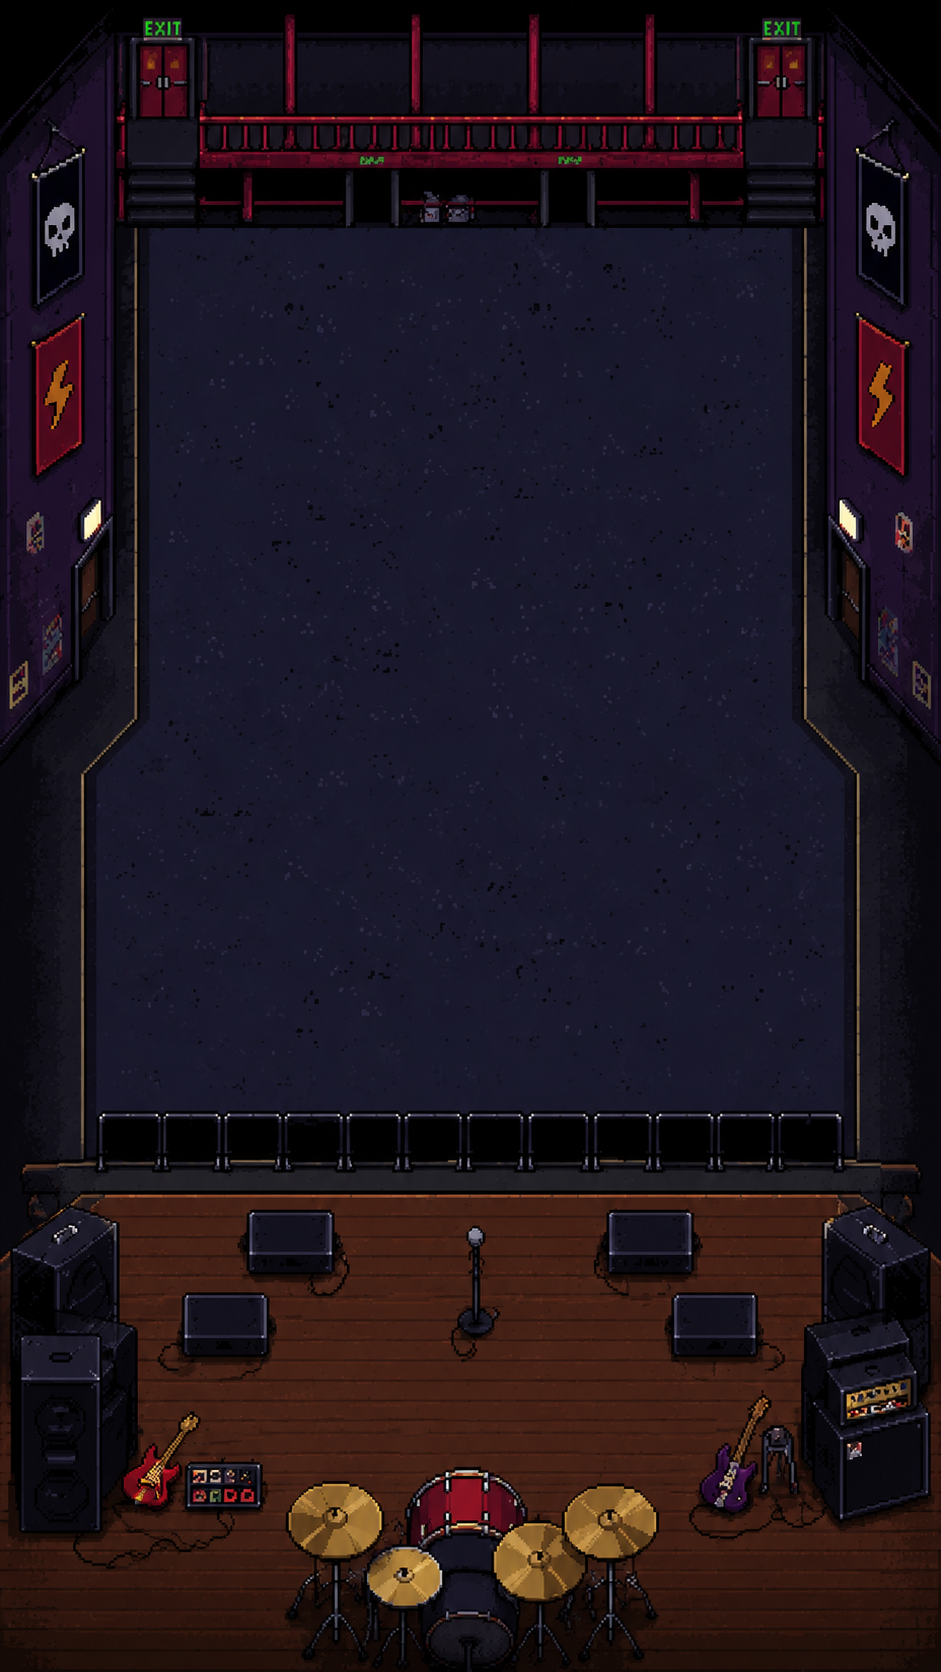
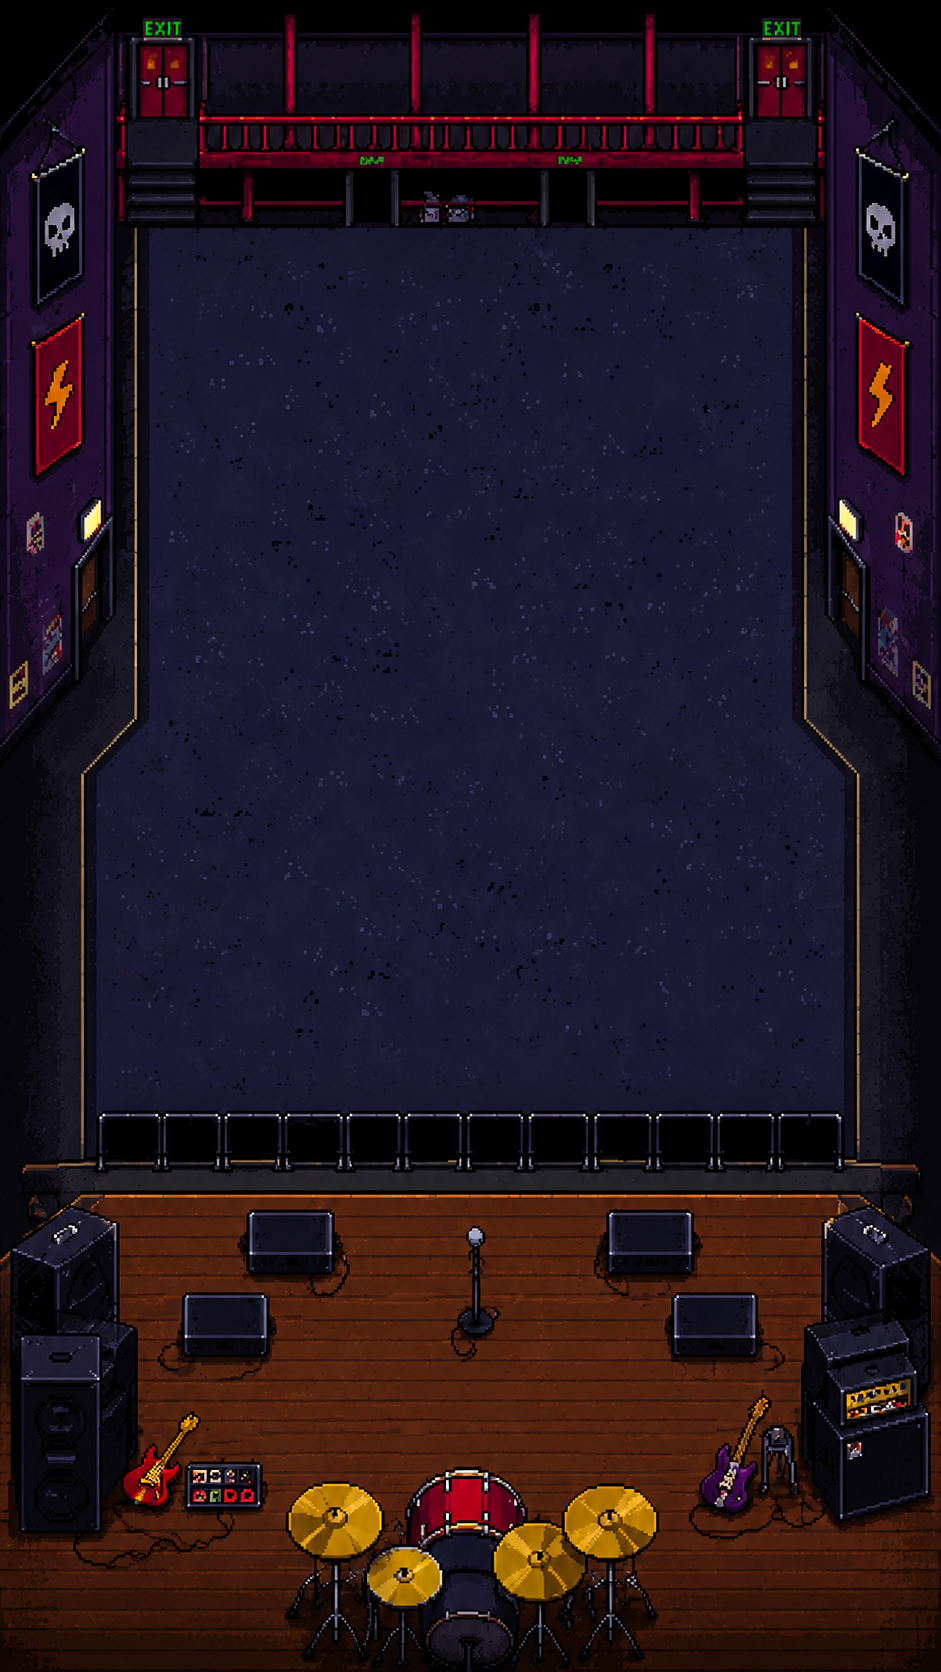
Fix preview scaling, add fullscreen preview page, directional bullet spawn

diff --git a/app/admin/secret-game/preview/page.tsx b/app/admin/secret-game/preview/page.tsx
@@ -1,0 +1,125 @@
+"use client";
+
+import { useState, useEffect, useCallback } from "react";
+import { useRouter } from "next/navigation";
+import { ArrowLeft, ZoomIn, ZoomOut, Monitor, Smartphone } from "lucide-react";
+import { GameEditorPreview } from "@/components/secret-game/game-editor-preview";
+import type { SecretGameSettings, GamePlatformSettings } from "@/lib/data";
+
+export default function FullscreenPreviewPage() {
+  const router = useRouter();
+  const [settings, setSettings] = useState<SecretGameSettings | null>(null);
+  const [platform, setPlatform] = useState<"desktop" | "mobile">("desktop");
+  const [previewZoom, setPreviewZoom] = useState(1);
+  const [loading, setLoading] = useState(true);
+
+  useEffect(() => {
+    fetch("/api/admin/data")
+      .then((r) => r.json())
+      .then((data) => {
+        setSettings(data.secretGame ?? null);
+        setLoading(false);
+      })
+      .catch(() => setLoading(false));
+  }, []);
+
+  const updatePlatform = useCallback((next: GamePlatformSettings) => {
+    setSettings((prev) => prev ? { ...prev, [platform]: next } : prev);
+  }, [platform]);
+
+  const updateField = useCallback((path: string, value: any) => {
+    setSettings((prev) => {
+      if (!prev) return prev;
+      const keys = path.split(".");
+      const next = { ...prev };
+      let target: any = next;
+      for (let i = 0; i < keys.length - 1; i++) { target[keys[i]] = { ...target[keys[i]] }; target = target[keys[i]]; }
+      target[keys[keys.length - 1]] = value;
+      return next;
+    });
+  }, []);
+
+  if (loading || !settings) {
+    return (
+      <div className="flex items-center justify-center h-screen bg-[#0a0a0a] text-neutral-500">
+        Loading preview…
+      </div>
+    );
+  }
+
+  const plat = settings[platform];
+
+  return (
+    <div className="min-h-screen bg-[#0a0a0a] text-white">
+      {/* Toolbar */}
+      <div className="sticky top-0 z-50 flex items-center justify-between gap-4 border-b border-[#1e1e1e] bg-[#0a0a0a]/90 backdrop-blur px-4 py-3">
+        <div className="flex items-center gap-3">
+          <button
+            onClick={() => router.push("/admin/secret-game")}
+            className="flex items-center gap-2 rounded-lg bg-[#1e1e1e] hover:bg-[#2a2a2a] px-3 py-2 text-sm text-neutral-300 transition-colors"
+          >
+            <ArrowLeft className="w-4 h-4" /> Back to Editor
+          </button>
+          <h1 className="text-sm font-semibold text-neutral-200">Live Preview</h1>
+        </div>
+
+        <div className="flex items-center gap-3">
+          {/* Platform toggle */}
+          <div className="flex gap-1 rounded-lg border border-[#1e1e1e] bg-[#141414] p-1">
+            <button
+              onClick={() => setPlatform("desktop")}
+              className={`flex items-center gap-1.5 rounded px-3 py-1.5 text-xs font-medium transition-colors ${platform === "desktop" ? "bg-[#00f0ff] text-black" : "text-neutral-400 hover:text-white"}`}
+            >
+              <Monitor className="w-3.5 h-3.5" /> Desktop
+            </button>
+            <button
+              onClick={() => setPlatform("mobile")}
+              className={`flex items-center gap-1.5 rounded px-3 py-1.5 text-xs font-medium transition-colors ${platform === "mobile" ? "bg-[#00f0ff] text-black" : "text-neutral-400 hover:text-white"}`}
+            >
+              <Smartphone className="w-3.5 h-3.5" /> Mobile
+            </button>
+          </div>
+
+          {/* Zoom controls */}
+          <div className="flex items-center gap-1">
+            <button onClick={() => setPreviewZoom((z) => Math.max(0.25, parseFloat((z - 0.25).toFixed(2))))} className="p-1.5 rounded bg-[#1e1e1e] hover:bg-[#2a2a2a] text-neutral-300 transition-colors"><ZoomOut className="w-4 h-4" /></button>
+            <span className="text-xs text-neutral-400 w-12 text-center">{Math.round(previewZoom * 100)}%</span>
+            <button onClick={() => setPreviewZoom((z) => Math.min(4, parseFloat((z + 0.25).toFixed(2))))} className="p-1.5 rounded bg-[#1e1e1e] hover:bg-[#2a2a2a] text-neutral-300 transition-colors"><ZoomIn className="w-4 h-4" /></button>
+            <button onClick={() => setPreviewZoom(1)} className="ml-1 px-2 py-1 rounded bg-[#1e1e1e] hover:bg-[#2a2a2a] text-neutral-400 text-xs transition-colors">Reset</button>
+          </div>
+        </div>
+      </div>
+
+      {/* Fullscreen preview */}
+      <div className="flex items-center justify-center p-4" style={{ minHeight: "calc(100vh - 64px)" }}>
+        <div
+          className="relative rounded-xl border border-[#1e1e1e] bg-[#141414] overflow-hidden"
+          style={{
+            width: platform === "desktop" ? "min(100%, 900px)" : "min(100%, 420px)",
+            height: platform === "desktop" ? "min(calc(100vh - 100px), 1200px)" : "min(calc(100vh - 100px), 900px)",
+          }}
+        >
+          <GameEditorPreview
+            settings={plat}
+            playerSprite={settings.playerSprite}
+            bossSettings={settings.boss}
+            platform={platform}
+            zoom={previewZoom}
+            hitboxPoints={settings.playerHitbox?.points}
+            bulletSpawnOffsetX={settings.bulletSpawnOffsetX}
+            bulletSpawnOffsetY={settings.bulletSpawnOffsetY}
+            mouseFollowOffsetX={settings.mouseFollowOffsetX}
+            mouseFollowOffsetY={settings.mouseFollowOffsetY}
+            spawnPoints={plat.spawnPoints}
+            onChange={updatePlatform}
+            onBossChange={(next) => setSettings((prev) => prev ? { ...prev, boss: next } : prev)}
+            onHitboxChange={(points) => setSettings((prev) => prev ? { ...prev, playerHitbox: { ...(prev.playerHitbox ?? {}), points } } : prev)}
+            onBulletSpawnChange={(ox, oy) => setSettings((prev) => prev ? { ...prev, bulletSpawnOffsetX: ox, bulletSpawnOffsetY: oy } : prev)}
+            onMouseFollowChange={(ox, oy) => setSettings((prev) => prev ? { ...prev, mouseFollowOffsetX: ox, mouseFollowOffsetY: oy } : prev)}
+            onSpawnPointsChange={(next) => updateField(`${platform}.spawnPoints`, next)}
+          />
+        </div>
+      </div>
+    </div>
+  );
+}

diff --git a/components/secret-game/game-editor-preview.tsx b/components/secret-game/game-editor-preview.tsx
@@ -94,8 +94,9 @@ export function GameEditorPreview({
     return () => window.removeEventListener("resize", measure);
   }, [platform, zoom]);
 
-  const scaleX = dims.w / BASE_W;
   const scaleY = dims.h / BASE_H;
+  // NOTE: the actual game uses ctx.scale(sc, sc) where sc = h / BASE_H.
+  // Both axes use the SAME scale factor (height-based), so we use scaleY for everything.
 
   // Load player sprite
   useEffect(() => {
@@ -429,7 +430,7 @@ export function GameEditorPreview({
       window.removeEventListener("touchmove", handleMove);
       window.removeEventListener("touchend", handleUp);
     };
-  }, [scaleX, scaleY, settings, onChange, onBossChange, bossSettings, playerSprite.offsetX, playerSprite.offsetY, hitboxPoints, onHitboxChange, onBulletSpawnChange, onMouseFollowChange, mouseFollowOffsetX, mouseFollowOffsetY, spawnPoints, onSpawnPointsChange]);
+  }, [scaleY, settings, onChange, onBossChange, bossSettings, playerSprite.offsetX, playerSprite.offsetY, hitboxPoints, onHitboxChange, onBulletSpawnChange, onMouseFollowChange, mouseFollowOffsetX, mouseFollowOffsetY, spawnPoints, onSpawnPointsChange]);
 
   // Click on canvas to add a new hitbox point
   const handleCanvasClick = useCallback((e: React.MouseEvent) => {
@@ -438,10 +439,10 @@ export function GameEditorPreview({
     if (dragRef.current) return;
     const rect = (e.currentTarget as HTMLDivElement).getBoundingClientRect();
     // Convert click to game-logical offset from player position
-    const ptX = Math.round((e.clientX - rect.left - settings.player.x * scaleX) / scaleY);
-    const ptY = Math.round((e.clientY - rect.top  - settings.player.y * scaleY) / scaleY);
+    const ptX = Math.round((e.clientX - rect.left) / scaleY - settings.player.x);
+    const ptY = Math.round((e.clientY - rect.top)  / scaleY - settings.player.y);
     onHitboxChange([...(hitboxPoints ?? []), { x: ptX, y: ptY }]);
-  }, [editMode, onHitboxChange, hitboxPoints, settings.player.x, settings.player.y, scaleX, scaleY]);
+  }, [editMode, onHitboxChange, hitboxPoints, settings.player.x, settings.player.y, scaleY]);
 
   // Overlay renderer for draggable items
   function DraggableOverlay({
@@ -522,18 +523,16 @@ export function GameEditorPreview({
   function ShieldOverlay({
     settings,
     playerSprite,
-    scaleX,
     scaleY,
     onDragStart,
   }: {
     settings: GamePlatformSettings;
     playerSprite: PlayerSprite;
-    scaleX: number;
     scaleY: number;
     onDragStart: (key: string, origX: number, origY: number, e: React.MouseEvent | React.TouchEvent) => void;
   }) {
     const radius = settings.shield?.radius ?? 16;
-    const left = settings.player.x * scaleX + (playerSprite.offsetX + playerSprite.width / 2 + (settings.shield?.offsetX ?? 0) - radius) * scaleY;
+    const left = settings.player.x * scaleY + (playerSprite.offsetX + playerSprite.width / 2 + (settings.shield?.offsetX ?? 0) - radius) * scaleY;
     const top = settings.player.y * scaleY + (playerSprite.offsetY + playerSprite.height / 2 + (settings.shield?.offsetY ?? 0) - radius) * scaleY;
     const size = radius * 2 * scaleY;
 
@@ -591,7 +590,7 @@ export function GameEditorPreview({
         <DraggableOverlay
           label="Player"
           itemKey="player"
-          left={settings.player.x * scaleX + playerSprite.offsetX * scaleY}
+          left={settings.player.x * scaleY + playerSprite.offsetX * scaleY}
           top={settings.player.y * scaleY + playerSprite.offsetY * scaleY}
           width={playerSprite.width * scaleY}
           height={playerSprite.height * scaleY}
@@ -603,7 +602,7 @@ export function GameEditorPreview({
         <DraggableOverlay
           label="Hearts"
           itemKey="hearts"
-          left={settings.hearts.x * scaleX}
+          left={settings.hearts.x * scaleY}
           top={settings.hearts.y * scaleY}
           width={(settings.hearts.size * 5 + 8) * scaleY}
           height={(settings.hearts.size + 4) * scaleY}
@@ -615,7 +614,7 @@ export function GameEditorPreview({
         <DraggableOverlay
           label="Arrow Keys"
           itemKey="arrowKeys"
-          left={settings.arrowKeys.x * scaleX}
+          left={settings.arrowKeys.x * scaleY}
           top={settings.arrowKeys.y * scaleY}
           width={(settings.arrowKeys.size * 2 + 16) * scaleY}
           height={(settings.arrowKeys.size + 8) * scaleY}
@@ -627,9 +626,9 @@ export function GameEditorPreview({
         <DraggableOverlay
           label="Touch Area"
           itemKey="touchArea"
-          left={settings.touchArea.x * scaleX}
+          left={settings.touchArea.x * scaleY}
           top={settings.touchArea.y * scaleY}
-          width={settings.touchArea.width * scaleX}
+          width={settings.touchArea.width * scaleY}
           height={settings.touchArea.height * scaleY}
           visible={settings.touchArea.visible}
           color="#00f0ff"
@@ -639,10 +638,10 @@ export function GameEditorPreview({
         <DraggableOverlay
           label="Fire"
           itemKey="fireButton"
-          left={settings.fireButton.x * scaleX}
+          left={settings.fireButton.x * scaleY}
           top={settings.fireButton.y * scaleY}
-          width={settings.fireButton.size * scaleX}
-          height={settings.fireButton.size * scaleX}
+          width={settings.fireButton.size * scaleY}
+          height={settings.fireButton.size * scaleY}
           visible={settings.fireButton.visible}
           color="#ff006e"
         />
@@ -651,7 +650,7 @@ export function GameEditorPreview({
         <DraggableOverlay
           label="Score"
           itemKey="score"
-          left={settings.score.x * scaleX}
+          left={settings.score.x * scaleY}
           top={settings.score.y * scaleY}
           width={((settings.score.size ?? 14) * 4.5) * scaleY}
           height={((settings.score.size ?? 14) * 1.8) * scaleY}
@@ -663,7 +662,7 @@ export function GameEditorPreview({
         <DraggableOverlay
           label="Wave"
           itemKey="wave"
-          left={settings.wave.x * scaleX}
+          left={settings.wave.x * scaleY}
           top={settings.wave.y * scaleY}
           width={((settings.wave.size ?? 14) * 3.2) * scaleY}
           height={((settings.wave.size ?? 14) * 1.8) * scaleY}
@@ -675,7 +674,7 @@ export function GameEditorPreview({
         <DraggableOverlay
           label="Power-ups"
           itemKey="powerUps"
-          left={settings.powerUps.x * scaleX}
+          left={settings.powerUps.x * scaleY}
           top={settings.powerUps.y * scaleY}
           width={((settings.powerUps.size ?? 8) * 14) * scaleY}
           height={((settings.powerUps.size ?? 8) * 2.5) * scaleY}
@@ -687,7 +686,7 @@ export function GameEditorPreview({
         <DraggableOverlay
           label="Boss HP"
           itemKey="bossHealthBar"
-          left={settings.bossHealthBar.x * scaleX}
+          left={settings.bossHealthBar.x * scaleY}
           top={settings.bossHealthBar.y * scaleY}
           width={((settings.bossHealthBar.size ?? 6) * 10) * scaleY}
           height={((settings.bossHealthBar.size ?? 6) * 1.5) * scaleY}
@@ -704,7 +703,7 @@ export function GameEditorPreview({
             <DraggableOverlay
               label="Controls"
               itemKey="controls"
-              left={ctrl.x * scaleX}
+              left={ctrl.x * scaleY}
               top={ctrl.y * scaleY}
               width={btnSz * 3 + gap * 2}
               height={btnSz}
@@ -718,7 +717,6 @@ export function GameEditorPreview({
         <ShieldOverlay
           settings={settings}
           playerSprite={playerSprite}
-          scaleX={scaleX}
           scaleY={scaleY}
           onDragStart={startDrag}
         />
@@ -728,7 +726,6 @@ export function GameEditorPreview({
           <BossOverlay
             bossPos={settings.boss}
             bossSettings={bossSettings}
-            scaleX={scaleX}
             scaleY={scaleY}
             onDragStart={startDrag}
           />
@@ -737,7 +734,7 @@ export function GameEditorPreview({
         {/* Spawn point overlays */}
         {(spawnPoints ?? []).map((sp, idx) => {
           if (!sp.enabled) return null;
-          const sl = sp.x * scaleX - 10;
+          const sl = sp.x * scaleY - 10;
           const st = sp.y * scaleY - 10;
           return (
             <div
@@ -771,7 +768,7 @@ export function GameEditorPreview({
             key={`hbpt-${i}`}
             className="absolute select-none"
             style={{
-              left: settings.player.x * scaleX + pt.x * scaleY - 6,
+              left: settings.player.x * scaleY + pt.x * scaleY - 6,
               top: settings.player.y * scaleY + pt.y * scaleY - 6,
               width: 12, height: 12,
               borderRadius: "50%",
@@ -793,7 +790,7 @@ export function GameEditorPreview({
         {(() => {
           const bsoX = bulletSpawnOffsetX ?? PLAYER_W_BASE / 2;
           const bsoY = bulletSpawnOffsetY ?? PLAYER_H_BASE / 2;
-          const bsl = settings.player.x * scaleX + bsoX * scaleY - 7;
+          const bsl = settings.player.x * scaleY + bsoX * scaleY - 7;
           const bst = settings.player.y * scaleY + bsoY * scaleY - 7;
           return (
             <div
@@ -818,7 +815,7 @@ export function GameEditorPreview({
         {(() => {
           const mfoX = mouseFollowOffsetX ?? (playerSprite.offsetX + playerSprite.width / 2);
           const mfoY = mouseFollowOffsetY ?? (playerSprite.offsetY + playerSprite.height / 2);
-          const mfl = settings.player.x * scaleX + mfoX * scaleY - 8;
+          const mfl = settings.player.x * scaleY + mfoX * scaleY - 8;
           const mft = settings.player.y * scaleY + mfoY * scaleY - 8;
           return (
             <div
@@ -896,17 +893,15 @@ export function GameEditorPreview({
 function BossOverlay({
   bossPos,
   bossSettings,
-  scaleX,
   scaleY,
   onDragStart,
 }: {
   bossPos: { x: number; y: number };
   bossSettings: BossSettings;
-  scaleX: number;
   scaleY: number;
   onDragStart: (key: string, origX: number, origY: number, e: React.MouseEvent | React.TouchEvent) => void;
 }) {
-  const left = bossPos.x * scaleX;
+  const left = bossPos.x * scaleY;
   const top = bossPos.y * scaleY;
   const width = bossSettings.width * scaleY;
   const height = bossSettings.height * scaleY;

diff --git a/components/secret-game/game-canvas.tsx b/components/secret-game/game-canvas.tsx
@@ -878,8 +878,17 @@ export function GameCanvas({
         if (s.frenzyAccum >= playerStats.frenzyCooldown) {
           s.frenzyAccum -= playerStats.frenzyCooldown;
           const count = playerStats.frenzyProjectiles;
-          const px = s.playerX + (siteData.secretGame?.bulletSpawnOffsetX ?? PLAYER_W_BASE / 2);
-          const py = s.playerY + (siteData.secretGame?.bulletSpawnOffsetY ?? PLAYER_H_BASE / 2);
+          const spriteCfg2 = siteData.secretGame?.playerSprite ?? { offsetX: -2, offsetY: -12, width: 14, height: 42 };
+          let dirOffX2 = 0;
+          let dirOffY2 = 0;
+          switch (s.playerFacing) {
+            case "up":    dirOffY2 = -spriteCfg2.height * 0.35; break;
+            case "down":  dirOffY2 =  spriteCfg2.height * 0.35; break;
+            case "left":  dirOffX2 = -spriteCfg2.width  * 0.35; break;
+            case "right": dirOffX2 =  spriteCfg2.width  * 0.35; break;
+          }
+          const px = s.playerX + (siteData.secretGame?.bulletSpawnOffsetX ?? PLAYER_W_BASE / 2) + dirOffX2;
+          const py = s.playerY + (siteData.secretGame?.bulletSpawnOffsetY ?? PLAYER_H_BASE / 2) + dirOffY2;
           for (let i = 0; i < count; i++) {
             const angle = (i / count) * Math.PI * 2;
             s.bullets.push({
@@ -1150,8 +1159,17 @@ export function GameCanvas({
           ? Math.min(playerStats.reloadTime, Math.max(0.06, 0.12 - 0.02 * (rapidStacks - 1)))
           : playerStats.reloadTime;
 
-        const px = s.playerX + (siteData.secretGame?.bulletSpawnOffsetX ?? PLAYER_W_BASE / 2);
-        const py = s.playerY + (siteData.secretGame?.bulletSpawnOffsetY ?? PLAYER_H_BASE / 2);
+        const spriteCfg = siteData.secretGame?.playerSprite ?? { offsetX: -2, offsetY: -12, width: 14, height: 42 };
+        let dirOffX = 0;
+        let dirOffY = 0;
+        switch (s.playerFacing) {
+          case "up":    dirOffY = -spriteCfg.height * 0.35; break;
+          case "down":  dirOffY =  spriteCfg.height * 0.35; break;
+          case "left":  dirOffX = -spriteCfg.width  * 0.35; break;
+          case "right": dirOffX =  spriteCfg.width  * 0.35; break;
+        }
+        const px = s.playerX + (siteData.secretGame?.bulletSpawnOffsetX ?? PLAYER_W_BASE / 2) + dirOffX;
+        const py = s.playerY + (siteData.secretGame?.bulletSpawnOffsetY ?? PLAYER_H_BASE / 2) + dirOffY;
         let aimX = px;
         let aimY = py - 10;
         if (sharedAim.aiming && sharedAim.x != null && sharedAim.y != null) {

diff --git a/app/admin/secret-game/page.tsx b/app/admin/secret-game/page.tsx
@@ -1188,6 +1188,7 @@ export default function SecretGameAdminPage() {
                 <p className="text-xs text-neutral-500 mt-0.5">Drag dashed boxes to reposition. Pink = enemies (not draggable).</p>
               </div>
               <div className="flex items-center gap-1 shrink-0">
+                <button onClick={() => window.open("/admin/secret-game/preview", "_blank")} className="px-2 py-1.5 rounded bg-[#1e1e1e] hover:bg-[#2a2a2a] text-neutral-300 text-xs transition-colors" title="Open fullscreen preview">Fullscreen</button>
                 <button onClick={() => setPreviewZoom((z) => Math.max(0.25, parseFloat((z - 0.25).toFixed(2))))} className="p-1.5 rounded bg-[#1e1e1e] hover:bg-[#2a2a2a] text-neutral-300 transition-colors" title="Zoom out"><ZoomOut className="w-4 h-4" /></button>
                 <span className="text-xs font-mono text-neutral-400 w-10 text-center">{Math.round(previewZoom * 100)}%</span>
                 <button onClick={() => setPreviewZoom((z) => Math.min(4, parseFloat((z + 0.25).toFixed(2))))} className="p-1.5 rounded bg-[#1e1e1e] hover:bg-[#2a2a2a] text-neutral-300 transition-colors" title="Zoom in"><ZoomIn className="w-4 h-4" /></button>